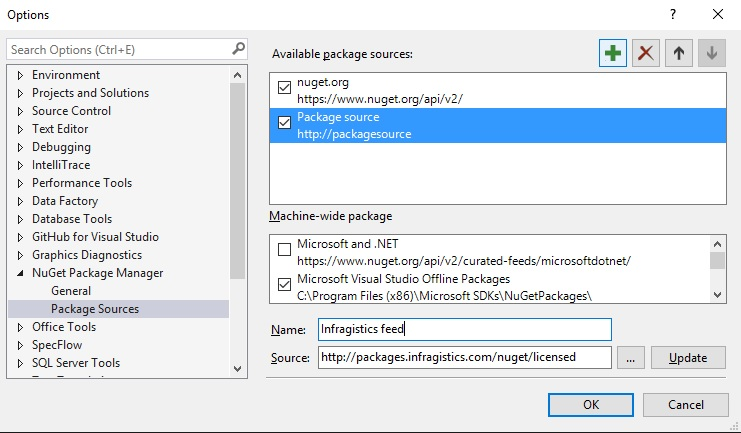
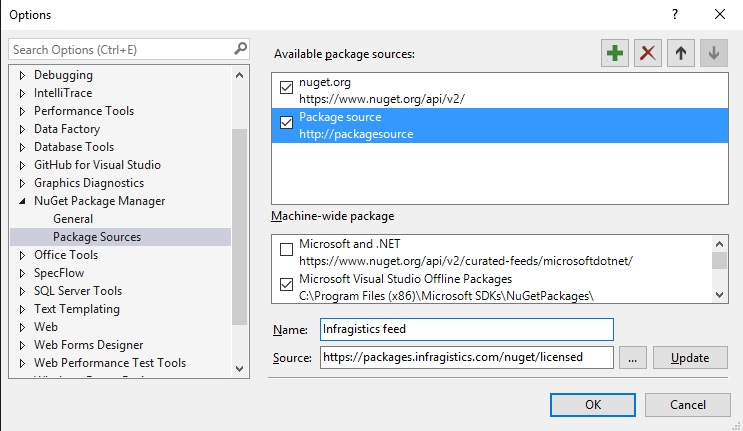
Updating the nuget topic - adding external nuget link

Changed region(s): [[0.0, 0.0905, 0.9933, 0.9049], [0.0, 0.9049, 1.0, 1.0], [0.0, 0.0, 0.0621, 0.0603]]

diff --git a/topics/01_General-and-Getting-Started/16_Using_Ignite_UI_NuGet_Packages.md b/topics/01_General-and-Getting-Started/16_Using_Ignite_UI_NuGet_Packages.md
@@ -15,14 +15,14 @@ When you install a package via NuGet, it copies the library files to your soluti
 NuGet is available since Visual Studio 2010 and since Visual Studio 2012, it is included by default. On more information on how to get going with it, read the official [NuGet documentation](http://docs.nuget.org/ndocs/guides/install-nuget).
 
 Infragistics Ignite UI controls are available to explore as a NuGet package and this is the easiest and the fastest way to install the Infragistics files and assemblies required for your project.
-There are two approaches to start using the NuGet packages. We suggest you to set up and use our private NuGet feed hosted on  [http://packages.infragistics.com/nuget/licensed](http://packages.infragistics.com/nuget/licensed) which will keep you up to date with all the NuGet packages Infragistics provide. Using this approach you will be able to get the latest version of the packages each time you create a new project or restore the packages of an existing one.
+There are two approaches to start using the NuGet packages. We suggest you to set up and use our private NuGet feed hosted on  [https://packages.infragistics.com/nuget/licensed](https://packages.infragistics.com/nuget/licensed) which will keep you up to date with all the NuGet packages Infragistics provide. Using this approach you will be able to get the latest version of the packages each time you create a new project or restore the packages of an existing one.
 The alternative approach to the Ignite UI NuGet packages is to install them locally by running the NuGet installer. The installer will automatically create a local feed named “Infragistics (Local)”, which will display all the Ignite UI NuGet packages that are available. During the installation if you leave the product key field empty, the installer will install the trial version of the packages. Have in mind that if you choose this way of working with the Ignite UI NuGet packages you will have to install a later version of the packages manually if you want to update the assemblies you use to the latest version available. 
 
 ## Installing Ignite UI packages from the online private feed
 
 The first step is to add the Infragistics feed as a package source. To do that, the user needs go to Tools/Options/Package Sources. To do that the user needs to go to Tools/Options/NuGet Package Manager/Package Sources.
 
-Add a new package source using Add new source button and name it Infragistics feed (in fact, you can name it however you want). Set the Source to infragistics-online-feed and click OK to save the source.
+Add a new package source using Add new source button and name it Infragistics feed (in fact, you can name it however you want). Set the Source to [*https://packages.infragistics.com/nuget/licensed*](https://packages.infragistics.com/nuget/licensed) and click OK to save the source.
 
 ![](images/Infragistics_feed.jpg)
 
